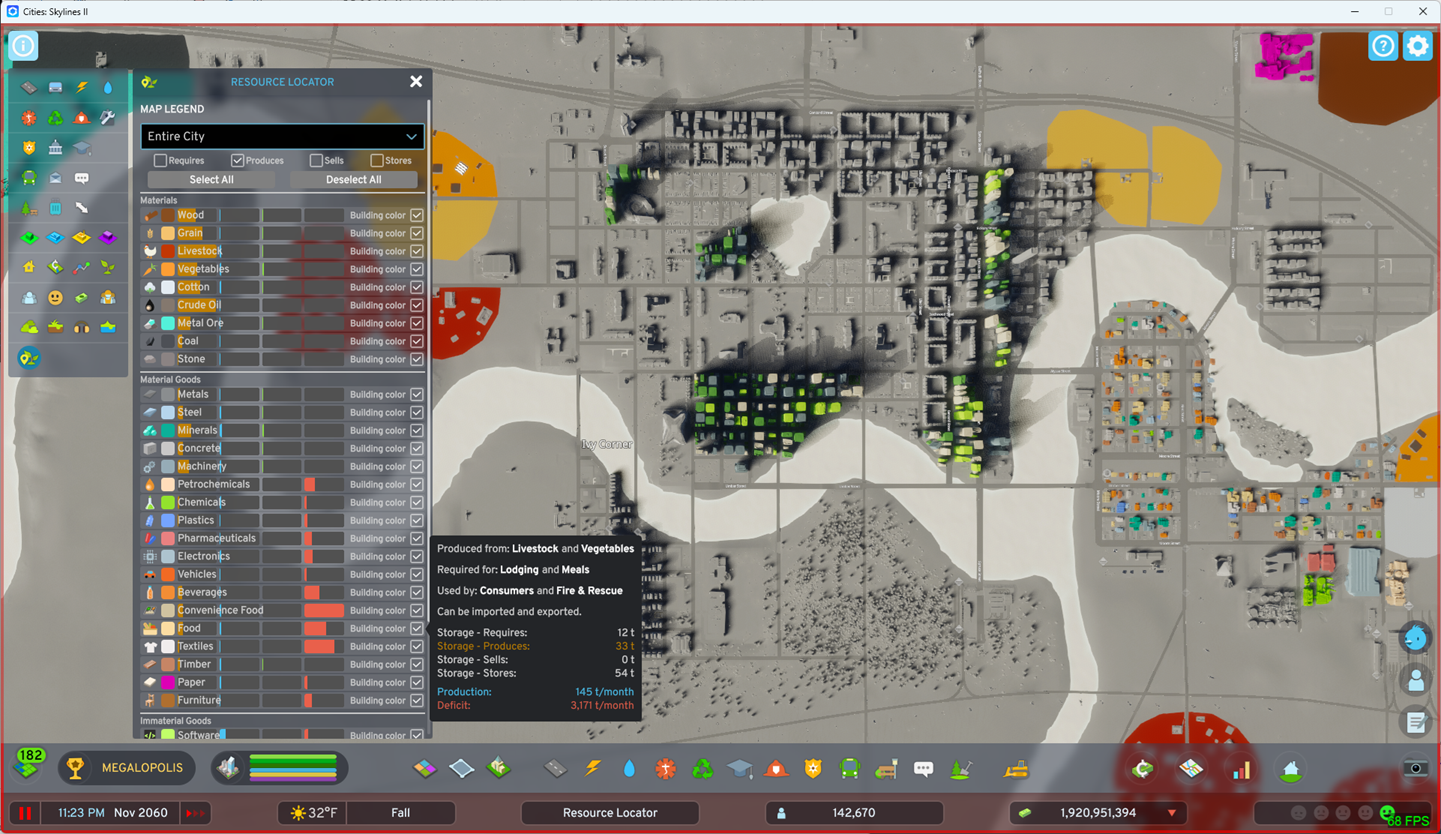
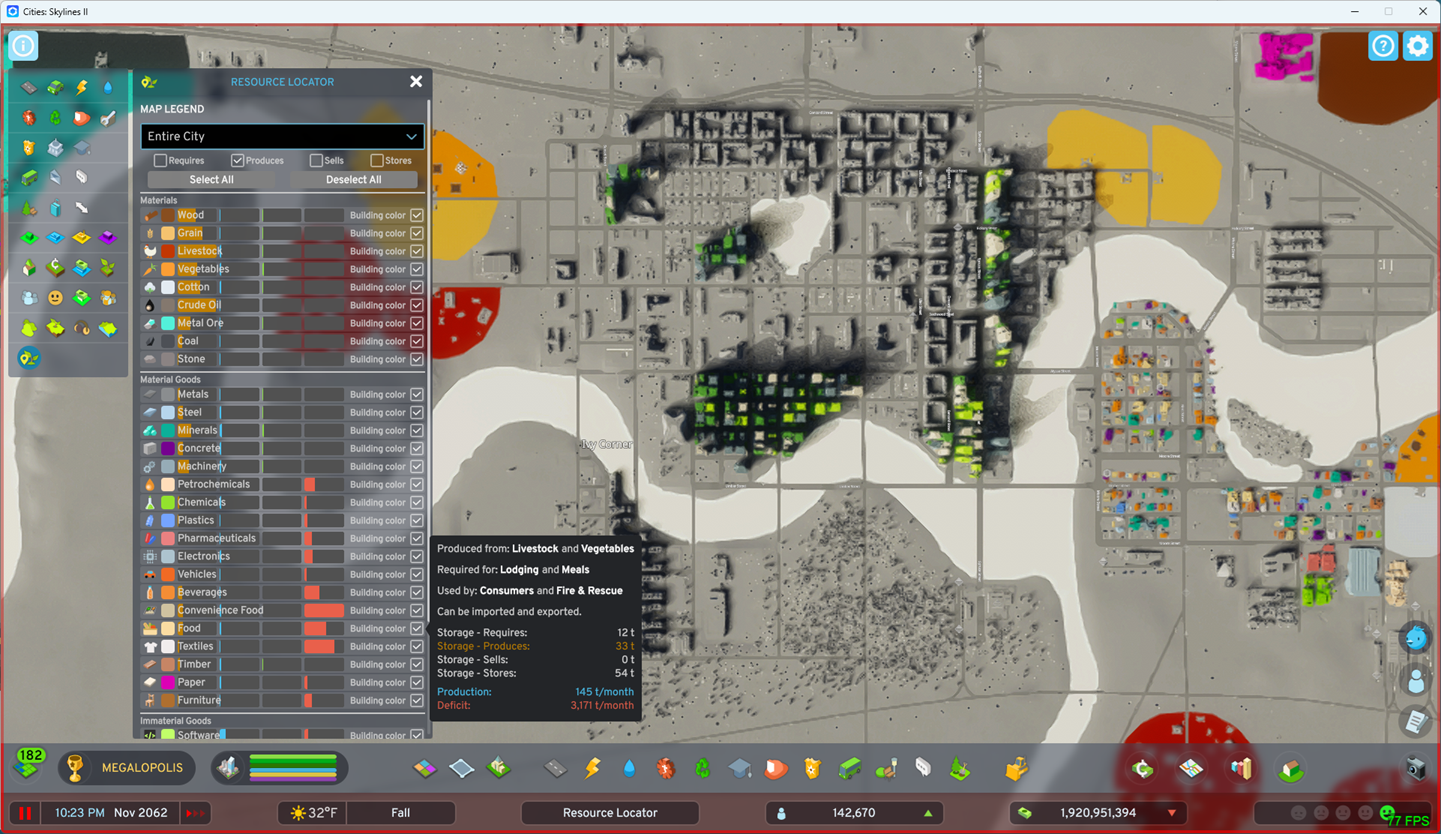
Version 1.3.0

diff --git a/Data/RLInfoviewUtils.cs b/Data/RLInfoviewUtils.cs
@@ -100,7 +100,7 @@ namespace ResourceLocator
             infomodePrefab.name = RLBuildingTypeUtils.GetBuildingTypeName(buildingType);
 
             // Set infomode color based on building type.
-            // Each color was taken manually from the corresponding resource icon.
+            // Except where noted, each color was taken manually from the corresponding resource icon.
             switch (buildingType)
             {
                 case RLBuildingType.Wood:               infomodePrefab.m_Color = GetColor(136,  77,  31); break;    // Dark part of the wood.
@@ -116,7 +116,7 @@ namespace ResourceLocator
                 case RLBuildingType.Metals:             infomodePrefab.m_Color = GetColor(138, 141, 143); break;    // Lighter of 2 colors.
                 case RLBuildingType.Steel:              infomodePrefab.m_Color = GetColor(182, 213, 236); break;    // Lighter of 2 colors.
                 case RLBuildingType.Minerals:           infomodePrefab.m_Color = GetColor( 10, 176, 153); break;    // Darkest of colors.
-                case RLBuildingType.Concrete:           infomodePrefab.m_Color = GetColor(200, 199, 199); break;    // Lightest of 3 colors.
+                case RLBuildingType.Concrete:           infomodePrefab.m_Color = GetColor(117,   0, 143); break;    // Ignore icon, use purple.
                 case RLBuildingType.Machinery:          infomodePrefab.m_Color = GetColor(150, 172, 183); break;    // Darker of 2 gears.
                 case RLBuildingType.Petrochemicals:     infomodePrefab.m_Color = GetColor(255, 221, 186); break;    // Lightest of 3 colors.
                 case RLBuildingType.Chemicals:          infomodePrefab.m_Color = GetColor(147, 226,  44); break;    // Green from flask.

diff --git a/ModAssemblyInfo/ModAssemblyInfo.cs b/ModAssemblyInfo/ModAssemblyInfo.cs
@@ -10,7 +10,7 @@ namespace ResourceLocator
     public class ModAssemblyInfo
     {
         public const string Name        = "ResourceLocator";
-        public const string Version     = "1.2.1";
+        public const string Version     = "1.3.0";
         public const string Title       = "Resource Locator";
         public const string Description = "New info view to locate buildings where resources are required, produced, sold, and stored.";
     }

diff --git a/ChangeLog.md b/ChangeLog.md
@@ -1,1 +1,1 @@
-- Update for game version 1.2.5f1.
+- Change resource color for Concrete.
